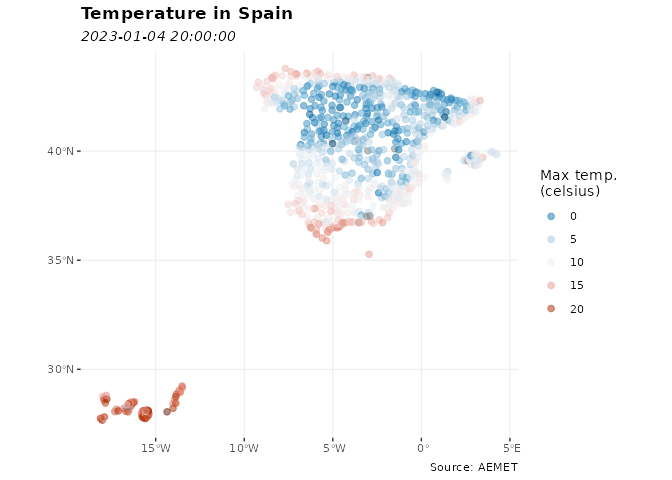
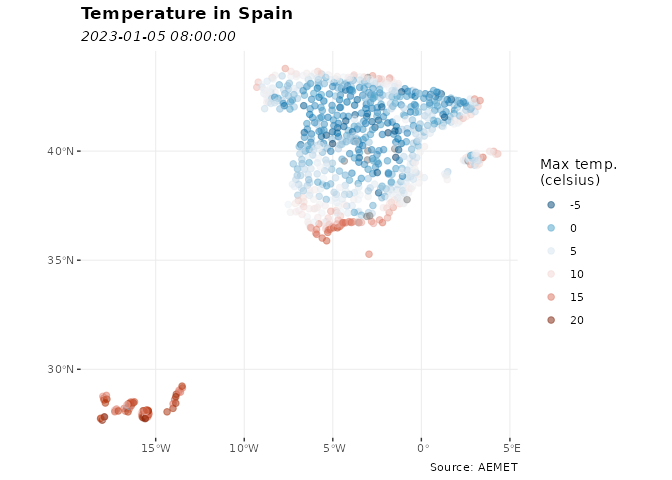
Update docs with pkgdev

diff --git a/README.md b/README.md
@@ -124,16 +124,16 @@ aemet_last_obs("9434")
 #> # A tibble: 24 × 25
 #>    idema   lon fint                 prec   alt  vmax    vv    dv   lat  dmax
 #>    <chr> <dbl> <dttm>              <dbl> <dbl> <dbl> <dbl> <dbl> <dbl> <dbl>
-#>  1 9434  -1.00 2023-01-04 20:00:00     0   249   1.5   0.4    33  41.7    78
-#>  2 9434  -1.00 2023-01-04 21:00:00     0   249   3.5   0.7   284  41.7   243
-#>  3 9434  -1.00 2023-01-04 22:00:00     0   249   1.2   0.5   318  41.7   263
-#>  4 9434  -1.00 2023-01-04 23:00:00     0   249   0.7   0.4    64  41.7    98
-#>  5 9434  -1.00 2023-01-05 00:00:00     0   249   1.2   0.8   208  41.7   218
-#>  6 9434  -1.00 2023-01-05 01:00:00     0   249   1.4   1     158  41.7   158
-#>  7 9434  -1.00 2023-01-05 02:00:00     0   249   1.7   1.2   116  41.7   125
-#>  8 9434  -1.00 2023-01-05 03:00:00     0   249   2.2   1.3   103  41.7   108
-#>  9 9434  -1.00 2023-01-05 04:00:00     0   249   2.5   1.8   106  41.7   100
-#> 10 9434  -1.00 2023-01-05 05:00:00     0   249   3.2   1.8   110  41.7   108
+#>  1 9434  -1.00 2023-01-05 08:00:00     0   249   3.2   2.2   112  41.7    93
+#>  2 9434  -1.00 2023-01-05 09:00:00     0   249   3.3   1.8    93  41.7    70
+#>  3 9434  -1.00 2023-01-05 10:00:00     0   249   3.3   1.7    94  41.7   115
+#>  4 9434  -1.00 2023-01-05 11:00:00     0   249   3     1.8   103  41.7   100
+#>  5 9434  -1.00 2023-01-05 12:00:00     0   249   3.4   1.6    85  41.7   108
+#>  6 9434  -1.00 2023-01-05 13:00:00     0   249   3.9   2.4   116  41.7   113
+#>  7 9434  -1.00 2023-01-05 14:00:00     0   249   3.4   1.9   119  41.7   125
+#>  8 9434  -1.00 2023-01-05 15:00:00     0   249   3.6   2.2    89  41.7   125
+#>  9 9434  -1.00 2023-01-05 16:00:00     0   249   4     2.8    91  41.7   108
+#> 10 9434  -1.00 2023-01-05 17:00:00     0   249   4.4   2.3   106  41.7    93
 #> # … with 14 more rows, and 15 more variables: ubi <chr>, pres <dbl>, hr <dbl>,
 #> #   stdvv <dbl>, ts <dbl>, pres_nmar <dbl>, tamin <dbl>, ta <dbl>, tamax <dbl>,
 #> #   tpr <dbl>, stddv <dbl>, inso <dbl>, tss5cm <dbl>, pacutp <dbl>,
@@ -174,12 +174,12 @@ knitr::kable(head(data_observation))
 
 | idema |       lon | fint                | prec | alt | vmax |  vv |  dv |      lat | dmax | ubi                 |   pres |  hr | stdvv |  ts | pres_nmar | tamin |  ta | tamax | tpr | stddv | inso | tss5cm | pacutp | tss20cm |
 |:------|----------:|:--------------------|-----:|----:|-----:|----:|----:|---------:|-----:|:--------------------|-------:|----:|------:|----:|----------:|------:|----:|------:|----:|------:|-----:|-------:|-------:|--------:|
-| 9434  | -1.004167 | 2023-01-04 20:00:00 |    0 | 249 |  1.5 | 0.4 |  33 | 41.66056 |   78 | ZARAGOZA AEROPUERTO | 1003.0 |  72 |   0.2 | 3.3 |    1034.3 |   6.1 | 6.1 |   7.2 | 1.5 |    27 |    0 |    7.8 |      0 |     9.3 |
-| 9434  | -1.004167 | 2023-01-04 21:00:00 |    0 | 249 |  3.5 | 0.7 | 284 | 41.66056 |  243 | ZARAGOZA AEROPUERTO | 1003.1 |  75 |   0.7 | 3.7 |    1034.4 |   5.5 | 5.5 |   6.3 | 1.5 |    33 |    0 |    7.3 |      0 |     9.2 |
-| 9434  | -1.004167 | 2023-01-04 22:00:00 |    0 | 249 |  1.2 | 0.5 | 318 | 41.66056 |  263 | ZARAGOZA AEROPUERTO | 1003.3 |  77 |   0.2 | 2.9 |    1034.7 |   4.9 | 4.9 |   5.6 | 1.3 |    20 |    0 |    6.9 |      0 |     9.1 |
-| 9434  | -1.004167 | 2023-01-04 23:00:00 |    0 | 249 |  0.7 | 0.4 |  64 | 41.66056 |   98 | ZARAGOZA AEROPUERTO | 1003.2 |  80 |   0.1 | 1.8 |    1034.7 |   4.0 | 4.0 |   4.9 | 0.9 |    46 |    0 |    6.5 |      0 |     8.9 |
-| 9434  | -1.004167 | 2023-01-05 00:00:00 |    0 | 249 |  1.2 | 0.8 | 208 | 41.66056 |  218 | ZARAGOZA AEROPUERTO | 1003.0 |  85 |   0.2 | 2.0 |    1034.6 |   3.2 | 3.2 |   4.0 | 0.9 |     6 |    0 |    6.2 |      0 |     8.7 |
-| 9434  | -1.004167 | 2023-01-05 01:00:00 |    0 | 249 |  1.4 | 1.0 | 158 | 41.66056 |  158 | ZARAGOZA AEROPUERTO | 1002.7 |  85 |   0.2 | 1.2 |    1034.3 |   2.9 | 2.9 |   3.2 | 0.6 |    11 |    0 |    5.9 |      0 |     8.6 |
+| 9434  | -1.004167 | 2023-01-05 08:00:00 |    0 | 249 |  3.2 | 2.2 | 112 | 41.66056 |   93 | ZARAGOZA AEROPUERTO | 1001.6 |  97 |   0.4 | 1.7 |    1033.4 |   1.4 | 1.4 |   1.5 | 1.1 |    20 |  0.0 |    5.1 |      0 |     7.4 |
+| 9434  | -1.004167 | 2023-01-05 09:00:00 |    0 | 249 |  3.3 | 1.8 |  93 | 41.66056 |   70 | ZARAGOZA AEROPUERTO | 1001.7 |  97 |   0.5 | 1.9 |    1033.5 |   1.3 | 1.4 |   1.4 | 1.1 |    15 |  0.0 |    5.2 |      0 |     7.3 |
+| 9434  | -1.004167 | 2023-01-05 10:00:00 |    0 | 249 |  3.3 | 1.7 |  94 | 41.66056 |  115 | ZARAGOZA AEROPUERTO | 1001.8 |  97 |   0.5 | 2.6 |    1033.5 |   1.4 | 1.9 |   1.9 | 1.5 |    17 |  0.0 |    5.4 |      0 |     7.3 |
+| 9434  | -1.004167 | 2023-01-05 11:00:00 |    0 | 249 |  3.0 | 1.8 | 103 | 41.66056 |  100 | ZARAGOZA AEROPUERTO | 1001.2 |  97 |   0.4 | 3.5 |    1032.8 |   1.9 | 2.7 |   2.7 | 2.3 |    17 |  0.0 |    5.9 |      0 |     7.2 |
+| 9434  | -1.004167 | 2023-01-05 12:00:00 |    0 | 249 |  3.4 | 1.6 |  85 | 41.66056 |  108 | ZARAGOZA AEROPUERTO | 1000.3 |  97 |   0.5 | 4.3 |    1031.8 |   2.7 | 3.1 |   3.1 | 2.7 |    22 |  0.0 |    6.4 |      0 |     7.2 |
+| 9434  | -1.004167 | 2023-01-05 13:00:00 |    0 | 249 |  3.9 | 2.4 | 116 | 41.66056 |  113 | ZARAGOZA AEROPUERTO |  999.3 |  85 |   0.5 | 7.6 |    1030.5 |   3.1 | 5.6 |   5.6 | 3.2 |    15 | 40.3 |    7.3 |      0 |     7.3 |
 
 ``` r
 
